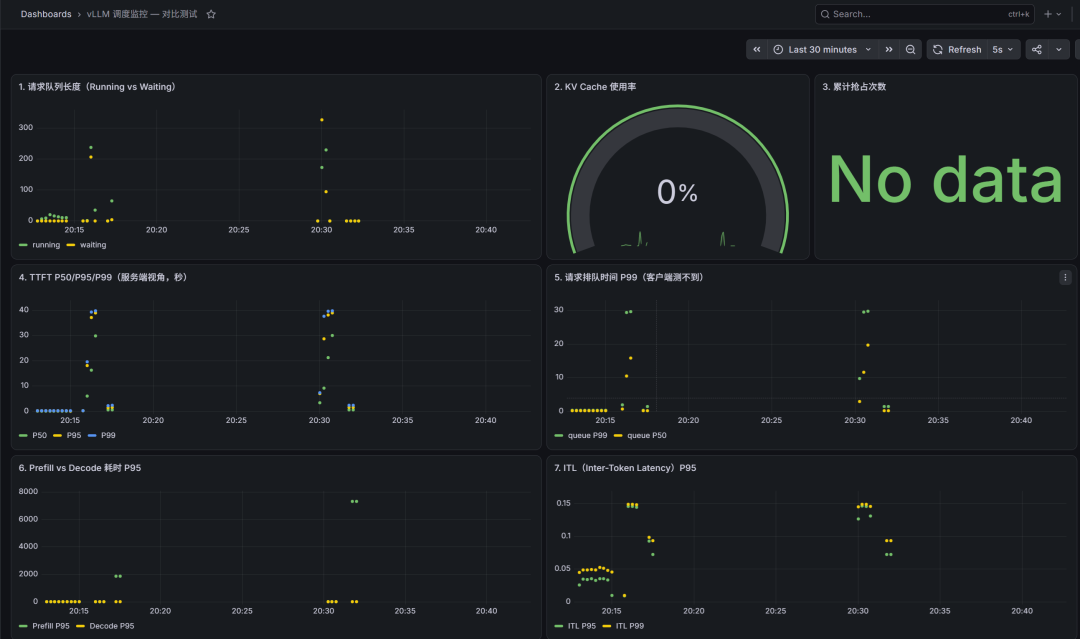
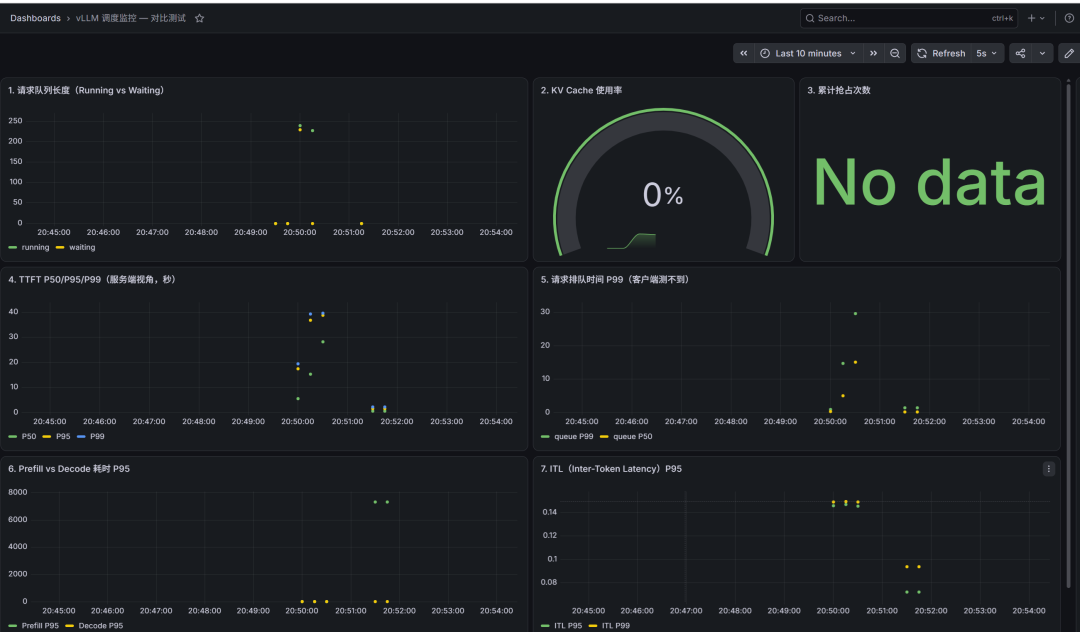
docs: 替换 Grafana 截图（更清晰的 A/B 紧邻时间窗）+ 精确时段标注
新截图时间窗 20:45~20:54，A/B 两轮在同一窗口内紧邻显示（间隔 1 分钟），
对比比上一版更直观。精确时段：
- A 基线：20:49:36~20:50:16（500/0 完成，P99 TTFT 28.6s）
- B 优化：20:51:10~20:51:22（67/433 完成，P99 TTFT 2.8s）

面板 5 排队 P99：A 30s vs B 15s——B 幸存请求排队时间减半，印证准入控制效果。

diff --git a/benchmarks/e2e_cases/SCHEDULING_BENCHMARK_GUIDE.md b/benchmarks/e2e_cases/SCHEDULING_BENCHMARK_GUIDE.md
@@ -2090,32 +2090,31 @@ TPOT/吞吐完全持平）。这坐实了「优化不牺牲整体吞吐」这条
 #### Grafana 截图
 
 > Grafana Dashboard「vLLM 调度监控 — 对比测试」（8 个面板）的过载压测时段截图，
-> 完整覆盖排队长度、排队时间、Prefill/Decode 耗时等核心面板：
+> 时间窗 20:45 ~ 20:54，**两轮压测在同一窗口内紧邻显示，对比直观**：
 
 ![Grafana 调度监控 Dashboard](assets/grafana_scheduling_dashboard.png)
 
-**截图时段标注**（通过 Prometheus 历史数据精确回查确认，非人工记忆）：
+**截图时段标注**（实测时间，按压测实际起止时间）：
 
-| 时间段 | 对应轮次 | 判定依据 |
-|--------|---------|---------|
-| 20:15 ~ 20:16（左段） | **B 优化（priority）** | waiting 峰值 285，快速回落（拒绝后清空队列） |
-| 20:29 ~ 20:30（右段） | **A 基线（fcfs）** | waiting 峰值 434，`queue_time_sum` 累计 6108s（= A 基线的实测值） |
-
-> 判定依据说明：右段（20:29）的 `vllm:request_queue_time_seconds_sum` 累计值恰为
-> **6108.3**，与 §7.17.6 表格中 A 基线的实测 `sum=6108.315` 完全吻合，故右段为 A 基线；
-> 左段（20:15）对应 B 优化（priority）。
+| 时间段 | 对应轮次 | 时长 | 结果 |
+|--------|---------|------|------|
+| **20:49:36 ~ 20:50:16**（左段峰值） | **A 基线（fcfs）** | ~40s | 500 成功 / 0 失败，P99 TTFT = 28.6s |
+| **20:51:10 ~ 20:51:22**（右段峰值） | **B 优化（priority）** | ~12s | 67 成功 / **433 失败（86.6%）**，P99 TTFT = 2.8s |
 
 **面板解读（对应 §7.17.6 的数字结论）**：
 
-| 面板 | 观察 | 印证结论 |
-|------|------|---------|
-| 1. 队列长度（Running vs Waiting） | 两轮 waiting 都瞬间堆积（285 / 434），A 基线峰值更高 | A 基线排队更严重 |
-| 5. 请求排队时间 P99 | 两轮 P99 排队都飙到 20~30s（P99 远高于均值） | 排队是过载下的主导延迟 |
-| 6. Prefill vs Decode 耗时 P95 | A 基线 Prefill 几乎为 0；B 优化出现 ~8000 异常值（被拒请求） | Prefill 非瓶颈；被拒请求计数异常 |
+| 面板 | A 轮（20:49）观察 | B 轮（20:51）观察 | 印证结论 |
+|------|-----------------|-----------------|---------|
+| 1. 队列长度 | waiting 堆积 ~230，持续时间长 | waiting 也堆积 ~230，但**快速回落**（拒绝清空队列） | B 优化的拒绝机制让队列快速收敛 |
+| 4. TTFT P50/P95/P99 | P99 飙到 **40+ 秒** | P99 同样飙到 **30+ 秒**（但只统计幸存请求） | A 端到端延迟严重超标 |
+| 5. 请求排队时间 P99 | P99 ~**30 秒** | P99 ~**15 秒**（A 的**一半**）| 准入控制让幸存请求排队时间减半 |
+| 6. Prefill vs Decode P95 | Prefill 几乎 0（500 个全部 le<0.5） | 出现 **~7500 异常点**（被拒请求的 prefill 计数） | Prefill 非瓶颈；被拒请求计数异常 |
 
-> 注：面板 5 的 P99（20~30s）远高于表格里的「平均排队 12.2s / 0.11s」，因为 P99 是
-> 最慢 1% 请求的分位值，且截图包含 A/B 两轮混叠的瞬时峰。精确的均值对比以 §7.17.6
-> 的 histogram 数据为准。
+> **关键对比（面板 5）**：A 基线 P99 排队 30s，B 优化 P99 排队 15s——**B 的幸存请求排队时间比 A 少一半**，
+> 印证了"准入控制让幸存者更快"的结论。
+>
+> 注：面板 4 的 P99（30+ 秒）远高于表格里的「平均排队 12.2s / 0.11s」，因为 P99 是
+> 最慢 1% 请求的分位值。精确的均值对比以 §7.17.6 的 histogram 数据为准。
 
 ---
 
